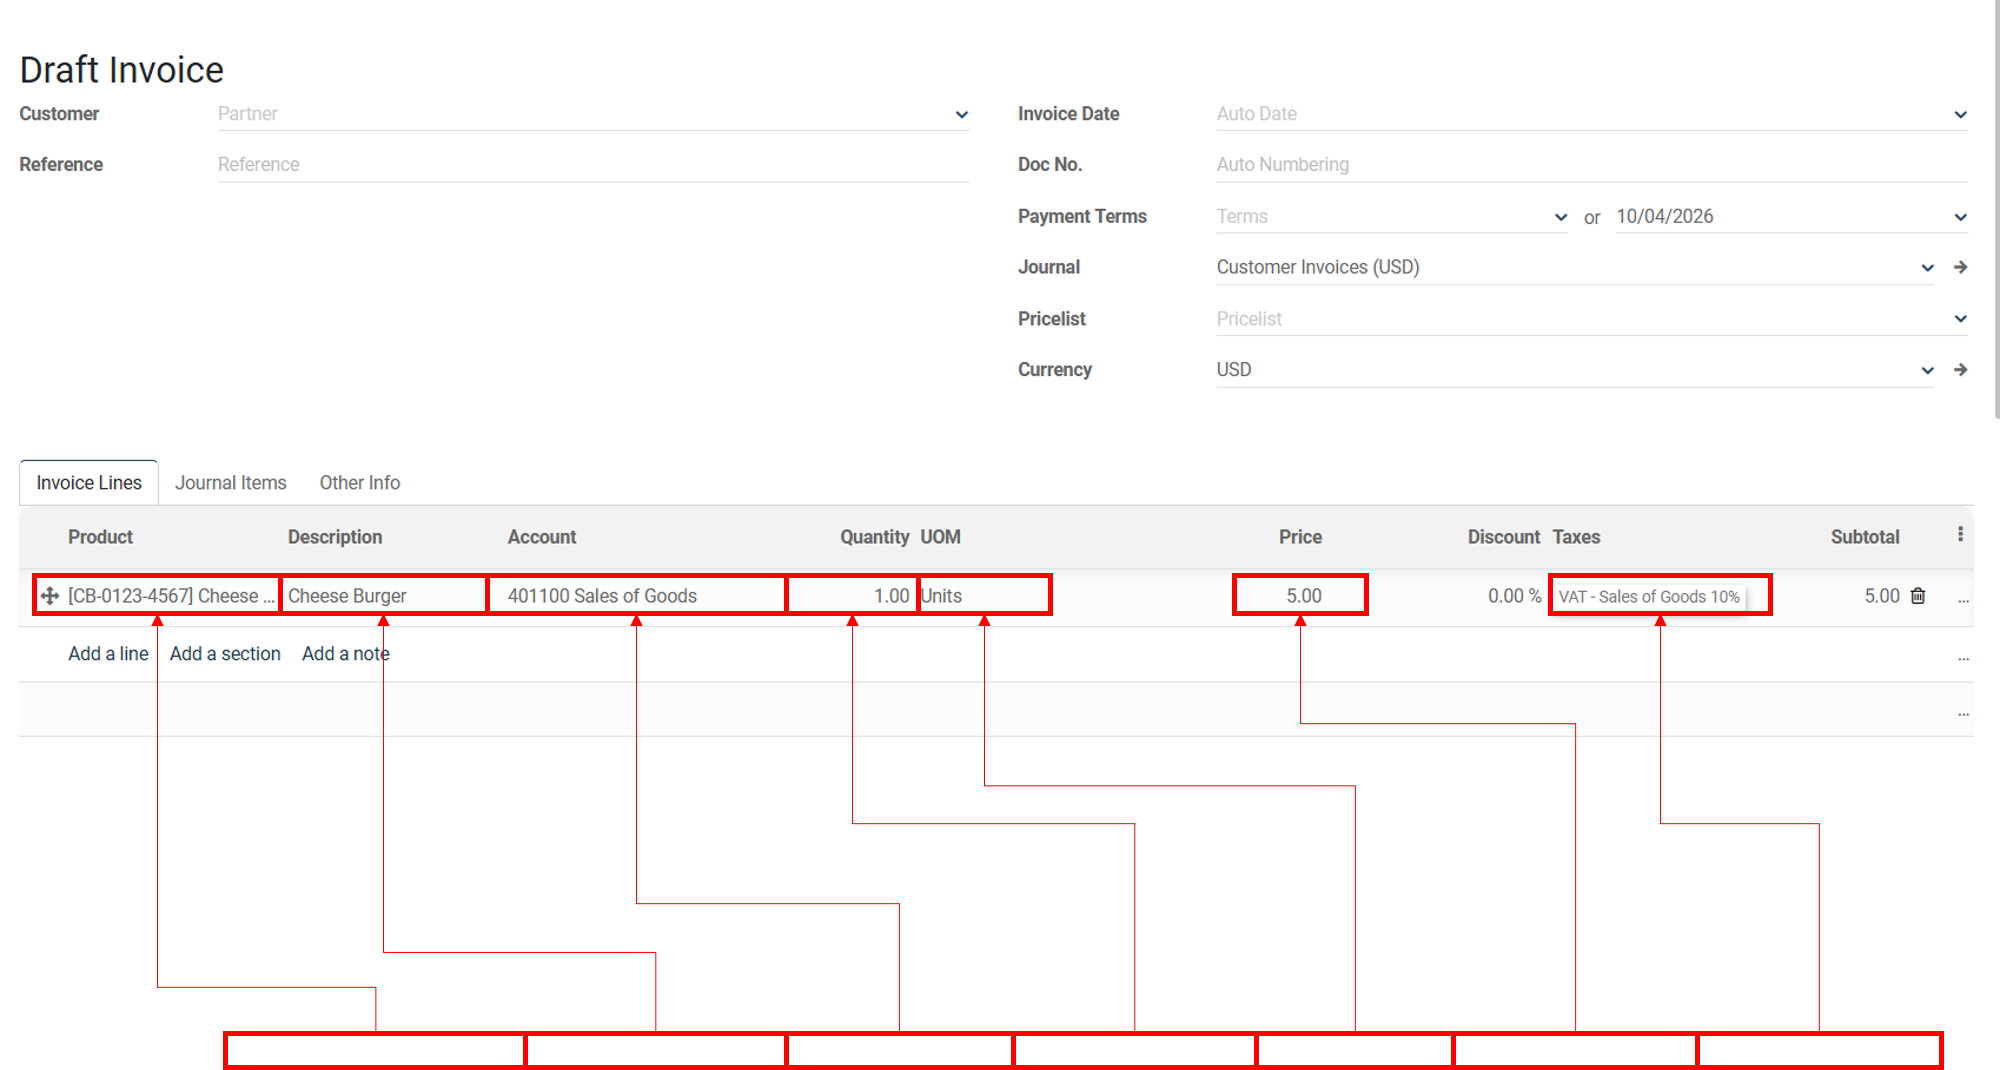
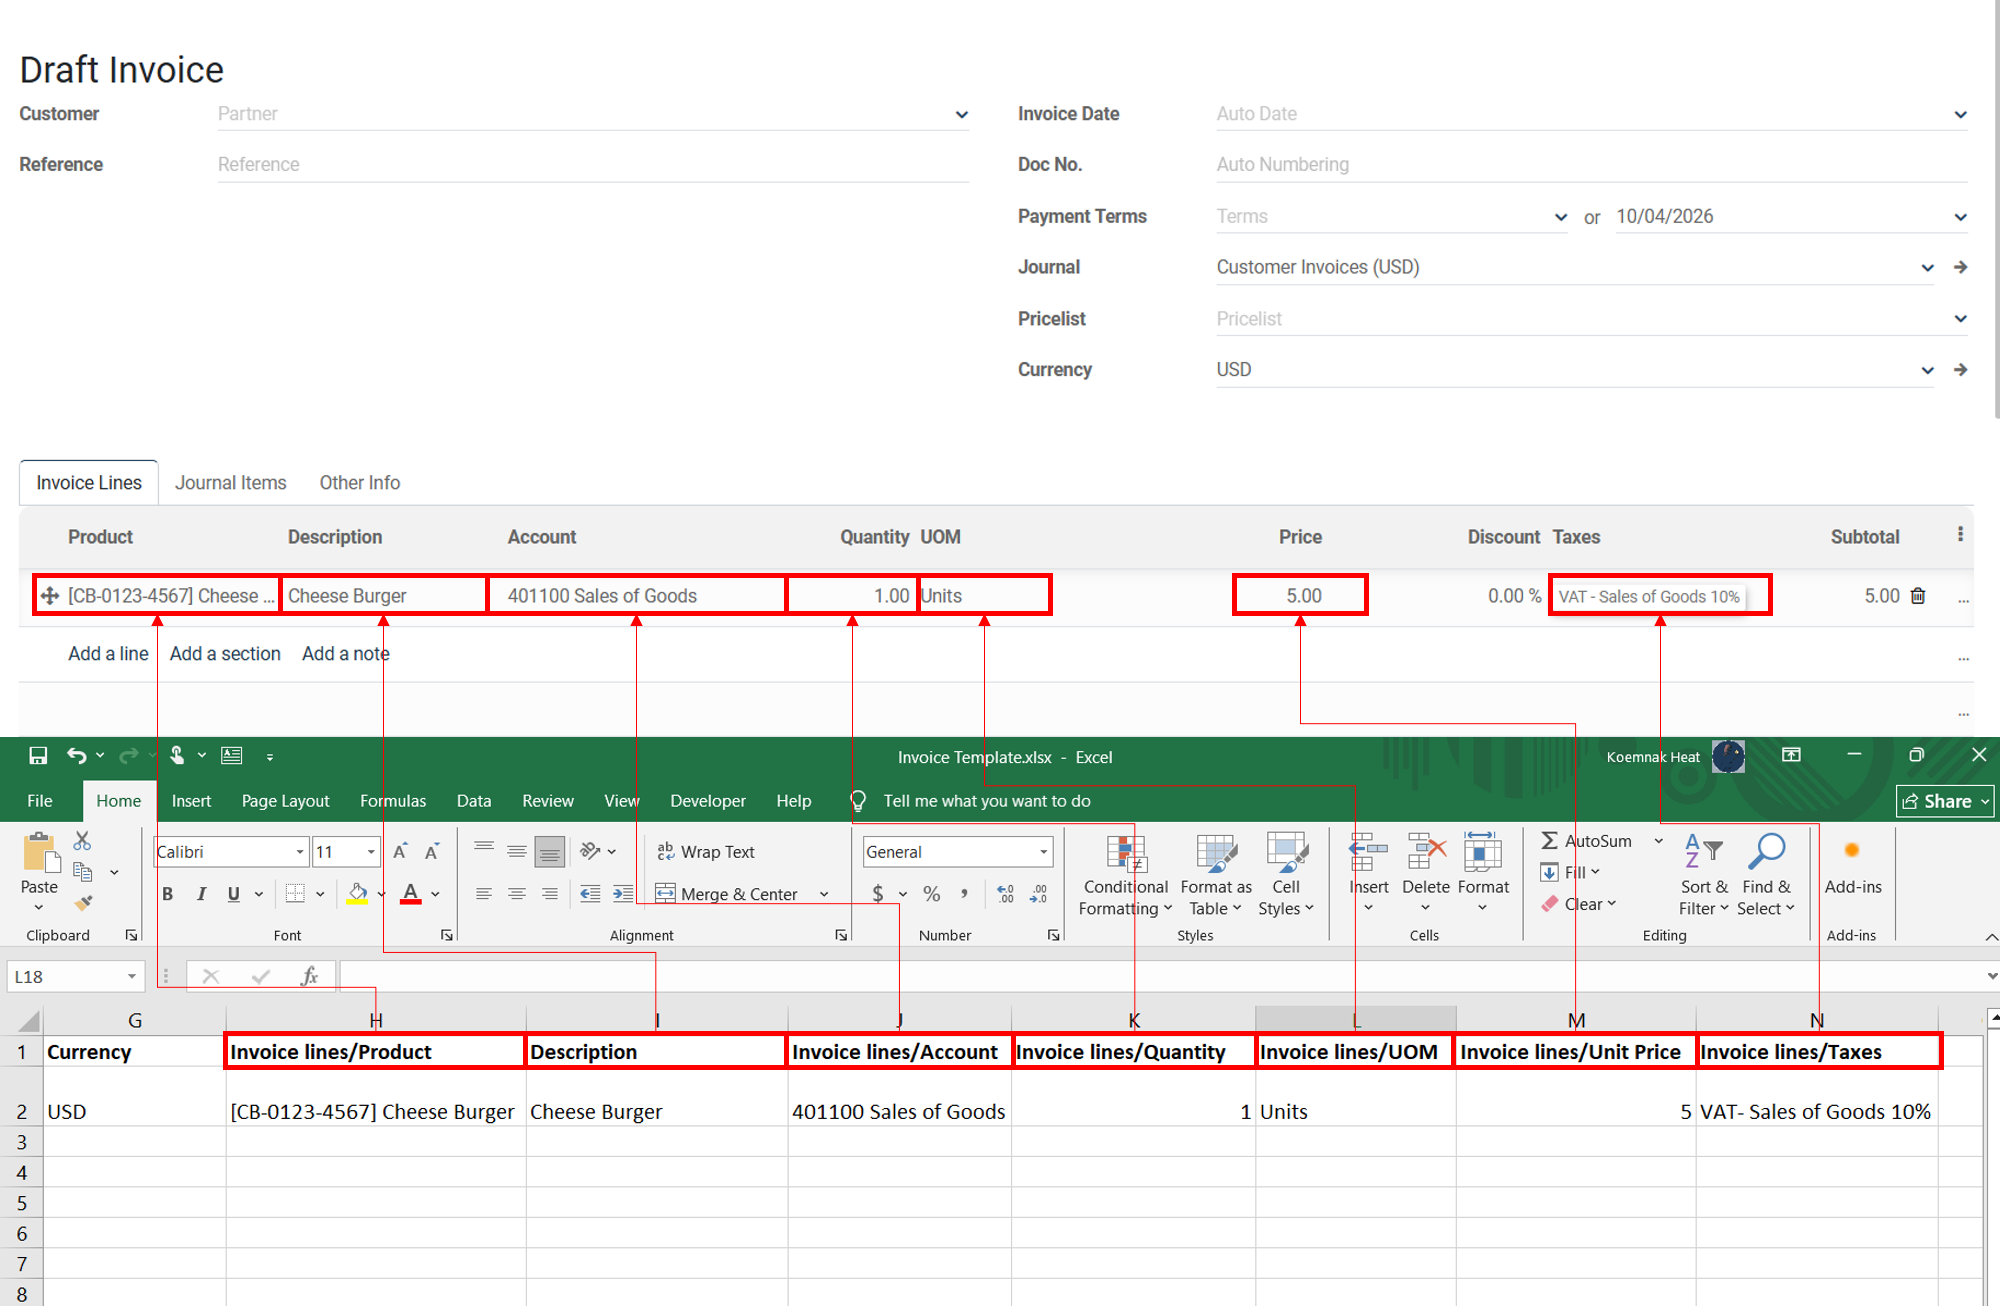
update

diff --git a/src/css/styles.module.css b/src/css/styles.module.css
@@ -335,7 +335,7 @@
 
 
 .articleRow {
-  border: 1px solid #e2ebf3;
+  border: 1px solid #eaf5fe;
   background: #ffffff;
   border-radius: 8px;
   transition: background 0.15s, border-color 0.15s, box-shadow 0.15s, transform 0.15s;
@@ -562,7 +562,7 @@
 
 /* ── Grid Card ─────────────────────────────── */
 .articleCard {
-  border: 1px solid #e8edf2;
+  border: 1px solid #ebf5ff;
   border-radius: 8px !important;
   background: #fff;
   transition: transform 0.15s, box-shadow 0.15s;
